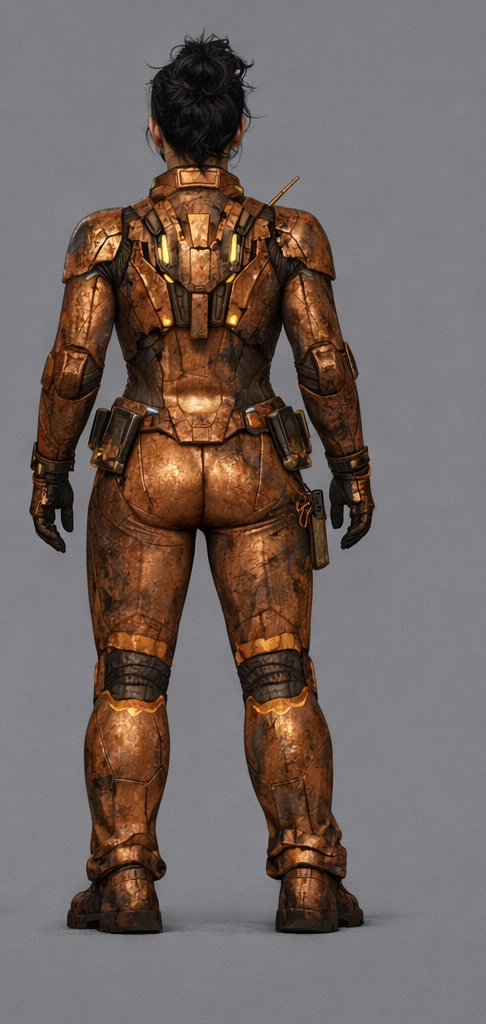
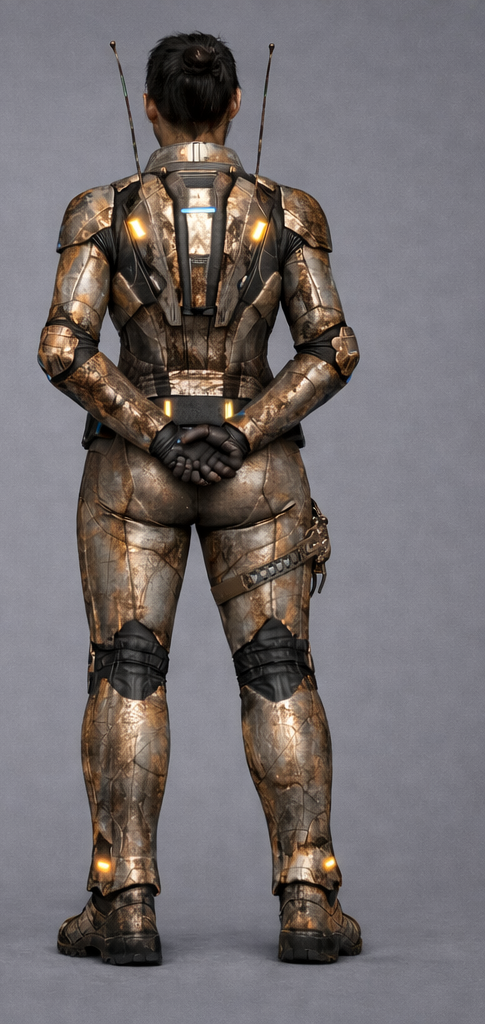
docs: add Sable 3-phase turnarounds, redo Sable/Wren mid-mission renders
- New: Sable Light Wear, Mid-Mission (redo), Heavy Wear turnarounds
- New: Wren Mid-Mission (redo) with corrected silver-copper base color
- Split all 4 turnarounds into 16 individual view images
- Update tracker: 13/35 done, removed REDO NEEDED notes
- Remove old Sable 2026-03-08 turnaround (superseded)

diff --git a/characters/GrimGlow_Character_Turnarounds.md b/characters/GrimGlow_Character_Turnarounds.md
@@ -21,17 +21,17 @@ Model reference sheets for 3D generation (Meshy.ai). Neutral background, even li
 | 4 | Thresh | Clean Suit (Issue 1) | ✅ Done | `concept-art/Thresh/GrimGlow_Turnaround_Thresh_2026-03-09.png` |
 | 5 | Luma | Clean Suit (Issue 1) | ✅ Done | `concept-art/Luma/GrimGlow_Turnaround_Luma_2026-03-09.png` |
 | 6 | Theodore | Standard | ✅ Done | `concept-art/Theodore/GrimGlow_Turnaround_Theodore.png` |
-| 7 | Sable | Light Wear (Issues 2–5) | ☐ | |
+| 7 | Sable | Light Wear (Issues 2–5) | ✅ Done | `concept-art/Sable/GrimGlow_Turnaround_Sable_LightWear_2026-03-15.png` |
 | 8 | Wren | Light Wear (Issues 2–5) | ☐ | |
 | 9 | Jink | Light Wear (Issues 2–5) | ☐ | |
 | 10 | Thresh | Light Wear (Issues 2–5) | ☐ | |
 | 11 | Luma | Light Wear (Issues 2–5) | ☐ | |
-| 12 | Sable | Mid-Mission (Issues 6–8) | ⟳ Redo | `concept-art/Sable/GrimGlow_Turnaround_Sable_MidMission_2026-03-13.png` |
-| 13 | Wren | Mid-Mission (Issues 6–8) | ⟳ Redo | `concept-art/Wren/GrimGlow_Turnaround_Wren_MidMission_2026-03-13.png` |
+| 12 | Sable | Mid-Mission (Issues 6–8) | ✅ Done | `concept-art/Sable/GrimGlow_Turnaround_Sable_MidMission_2026-03-15.png` |
+| 13 | Wren | Mid-Mission (Issues 6–8) | ✅ Done | `concept-art/Wren/GrimGlow_Turnaround_Wren_MidMission_2026-03-15.png` |
 | 14 | Jink | Mid-Mission (Issues 6–8) | ✅ Done | `concept-art/Jink/GrimGlow_Turnaround_Jink_MidMission_2026-03-13.png` |
 | 15 | Thresh | Mid-Mission (Issues 6–8) | ✅ Done | `concept-art/Thresh/GrimGlow_Turnaround_Thresh_MidMission_2026-03-13.png` |
 | 16 | Luma | Mid-Mission (Issues 6–8) | ✅ Done | `concept-art/Luma/GrimGlow_Turnaround_Luma_MidMission_2026-03-13.png` |
-| 17 | Sable | Heavy Wear (Issues 9–12) | ☐ | |
+| 17 | Sable | Heavy Wear (Issues 9–12) | ✅ Done | `concept-art/Sable/GrimGlow_Turnaround_Sable_HeavyWear_2026-03-15.png` |
 | 18 | Wren | Heavy Wear (Issues 9–12) | ☐ | |
 | 19 | Jink | Heavy Wear (Issues 9–12) | ☐ | |
 | 20 | Thresh | Heavy Wear (Issues 9–12) | ☐ | |
@@ -51,7 +51,7 @@ Model reference sheets for 3D generation (Meshy.ai). Neutral background, even li
 | 34 | Walter Gedge | Normal | ☐ | |
 | 35 | Walter Gedge | Brain-Plugged | ☐ | |
 
-**Done: 9/35 — Redo: 2 — Remaining: 24 (5 days at 5/day)**
+**Done: 13/35 — Remaining: 22 (5 days at 5/day)**
 
 ### Generation Notes — READ BEFORE GENERATING
 
@@ -84,21 +84,19 @@ Character turnaround reference sheet. Four views of the same character on a plai
 
 > **Detail check:** ☐ 5 blue-white holographic nodes visible (chest, shoulders, knees) ☐ Panel lines across all suit surfaces ☐ Distinct armor plates at shoulders/chest/forearms ☐ Wing-pack with glowing seams ☐ Sidearm holstered ☐ Brushed metallic texture, not smooth chrome ☐ Temple emitter glowing
 
-### ☐ Light Wear (Issues 2–5)
+### ✅ Light Wear (Issues 2–5)
 
 ```
 Character turnaround reference sheet. Four views of the same character on a plain neutral gray background: front, three-quarter, side profile, and back. Even studio lighting, no dramatic shadows. Full body, standing upright in a relaxed military at-ease pose. Same character as clean version — woman, late thirties, sharp features, dark brown skin, close-cropped silver-white hair. The suit retains all structural details from the clean version — same geometric panel lines, same armor plate segmentation at shoulders/chest/forearms, same brushed metallic texture, same five holographic accent nodes (chest, both shoulders, both knees), same sidearm holstered at hip, same temple emitter. The suit is no longer pristine but NOT heavily damaged. Light environmental wear only: faint water spots along the shoulders and upper arms from rain exposure. A thin film of London dust dulls the metallic finish slightly — the silver still catches light but reads matte rather than mirror-reflective. Mud spatters on both boots and lower shins. A minor scuff across the right forearm from the cat encounter — surface-level, no underlayer exposed. The hairline fractures from the crash in Issue 1 are still visible at the right shoulder as faint blue-white glowing seam lines. All five holographic accent nodes glow brightly — no dimming yet, full power. Wing-pack seams glow at full strength. The visual story: a pristine suit that has spent a few days in Victorian London — dusty and rain-spotted but structurally perfect. Consistent detail across all four views.
 ```
 
-### ⟳ Mid-Mission (Issues 6–8)
-
-> **REDO NEEDED:** Prompt updated — existing render (2026-03-13) has node count/placement drift and chest plate shrank. Regenerate with this revised prompt.
+### ✅ Mid-Mission (Issues 6–8)
 
 ```
 Character turnaround reference sheet. Four views of the same character on a plain neutral gray background: front, three-quarter, side profile, and back. Even studio lighting, no dramatic shadows. Full body, standing upright in a relaxed military at-ease pose. Same character as clean version — woman, late thirties, sharp features, dark brown skin, close-cropped silver-white hair. The suit retains all structural details from the clean version — same geometric panel lines, same armor plate segmentation at shoulders/chest/forearms, same brushed metallic texture, same five holographic accent nodes (chest, both shoulders, both knees) — now weathered over that structure. Her command silver suit is scuffed and streaked with soot along the arms and knees. Scratches across the right shoulder and left forearm expose a slightly darker underlayer. The suit still catches light on undamaged surfaces. A faint holographic heads-up display glows in pale blue geometric shapes near her left eye — small floating glyphs like luminous runes, semi-transparent. The wing-pack module between her shoulder blades is lightly scratched but intact, seams still glowing faintly. Sidearm at hip shows minor wear. All five holographic nodes are still visible — dimmed by grime but glowing through it, especially the large chest node. The key visual: command silver consumed by grime but holographic light still bleeding through at the nodes, wing-pack seams, and temple emitter. Future beauty degraded but not extinguished. Consistent proportions and damage placement across all four views.
 ```
 
-### ☐ Heavy Wear (Issues 9–12)
+### ✅ Heavy Wear (Issues 9–12)
 
 ```
 Character turnaround reference sheet. Four views of the same character on a plain neutral gray background: front, three-quarter, side profile, and back. Even studio lighting, no dramatic shadows. Full body, standing upright in a relaxed military at-ease pose but with fractionally heavier shoulders — the posture of sustained command. Same character as clean version — woman, late thirties, sharp features, dark brown skin, close-cropped silver-white hair. The suit retains all structural details from the clean version — same geometric panel lines, same armor plate segmentation at shoulders/chest/forearms, same brushed metallic texture — now buried under heavy accumulated damage. Her command silver suit is pewter-dark with soot and grime — the original silver visible only in patches where contact has worn the grime away (inner elbows, waist where the belt sits). A deep gouge runs diagonally across the left chest plate — the underlayer visible as a dark line. The right shoulder plate has a hairline crack sealed with a smear of dark adhesive. Both knees are soot-caked almost black. The sidearm holster shows heavy wear. Wing-pack casing has multiple scratches and a sealed crack along one edge. Three of the five holographic nodes still glow — the chest node pulses steadily, both shoulder nodes are dimmed. The left knee node flickers intermittently. The right knee node is dark — emitter damaged. Temple emitter still functions, projecting a faint HUD. The visual story: a commander who has carried her squad through weeks in a hostile past — battered, soot-covered, but the light still bleeds through. Future consumed by the past, not extinguished. Consistent damage placement across all four views.
@@ -122,9 +120,7 @@ Character turnaround reference sheet. Four views of the same character on a plai
 Character turnaround reference sheet. Four views of the same character on a plain neutral gray background: front, three-quarter, side profile, and back. Even studio lighting, no dramatic shadows. Full body, standing upright in a neutral pose, arms slightly away from body. Same character as clean version — woman, early thirties, East Asian features, wiry build, dark hair in messy knot still neat but beginning to loosen. The suit retains all structural details from the clean version — same silver-metallic base with copper shimmer (NOT solid copper), same geometric panel lines, same reinforced forearm panels with recessed tool slots, same brushed metallic texture, same five holographic accent nodes (chest projector, both shoulders, both knees), same wing-pack with sensor antennae. The suit is no longer pristine but NOT heavily damaged. Light environmental wear only: a thin film of London dust dulls the metallic finish — the silver-copper still catches light but reads less reflective. Water spots along the upper arms from rain. The first oil stains appear at the fingertips and wrist joints — light smudges from hands-on tinkering, not yet the deep forearm stains of later issues. Mud spatters on both boots. The tool belt pouches are all present and organized — tools intact. All five holographic accent nodes glow brightly at full power — no dimming yet. Wing-pack antennae straight and intact. The visual story: an engineer who has started working but whose suit still reads as mostly new — the first fingerprints of the past on future tech. Consistent detail across all four views.
 ```
 
-### ⟳ Mid-Mission (Issues 6–8)
-
-> **REDO NEEDED:** Prompt updated — existing render (2026-03-13) shifted to solid copper (should be silver base with copper shimmer), lost mechanical gauntlet detail, and simplified panel lines. Regenerate with this revised prompt.
+### ✅ Mid-Mission (Issues 6–8)
 
 ```
 Character turnaround reference sheet. Four views of the same character on a plain neutral gray background: front, three-quarter, side profile, and back. Even studio lighting, no dramatic shadows. Full body, standing upright, arms slightly away from body. Same character as clean version — woman, early thirties, East Asian features, wiry build, dark hair in messy knot now looser with more strands escaped. The suit retains all structural details from the clean version — same silver-metallic base with copper shimmer (NOT solid copper), same geometric panel lines, same reinforced forearm panels with recessed tool slots, same complex segmented armor plates, same brushed metallic texture, same five holographic accent nodes (chest projector, both shoulders, both knees) — now weathered over that structure. Her silver-copper suit is the most visibly worn of the squad. Oil stains darken both reinforced forearm panels from wrist to elbow, seeping into the recessed tool slots. Soot and copper-colored dust coat her knees and shins. A scorch mark runs along her left shoulder — dark charring that has partially melted the suit surface. A small tear at her right hip has been patched with a strip of copper wire wound tightly around the suit material — steampunk repair on future tech. Despite the damage, all five copper-gold holographic nodes still glow through the grime — the chest projector lens pulses warmly, shoulder and knee nodes are dimmed but visible. Tool pouches are partially open, some tools missing, one replaced with a Victorian-era brass caliper jury-rigged into the magnetic mount. Wing-pack has one sensor antenna bent. The visual story: an engineer who has been working hard in hostile conditions, improvising with local materials. Consistent damage placement across all four views.
